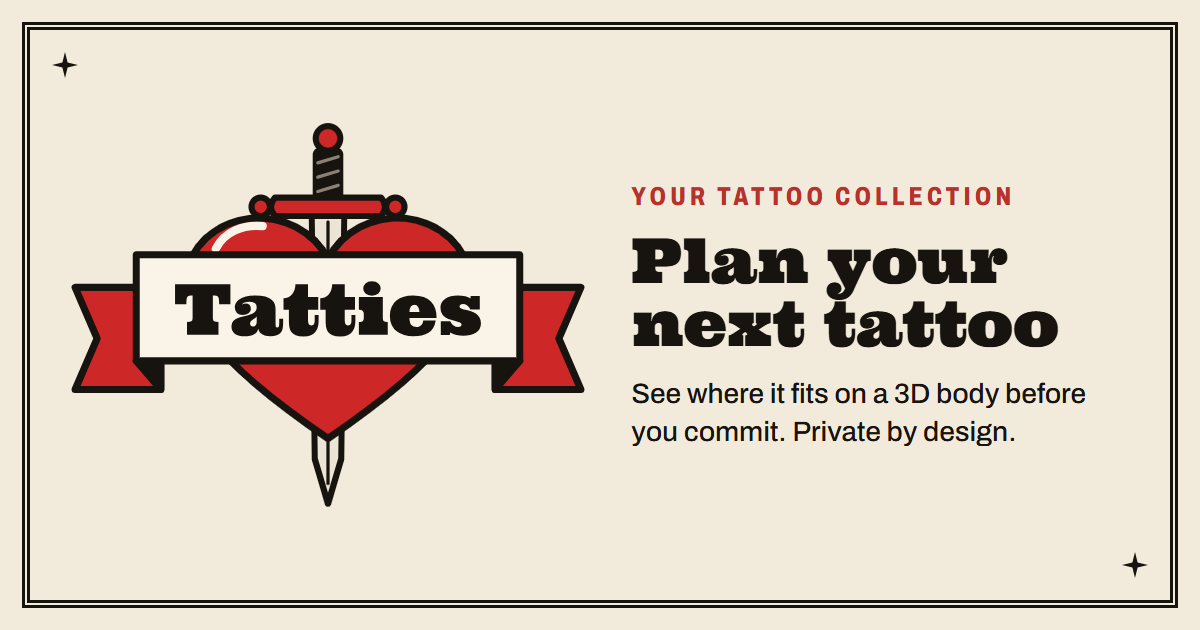
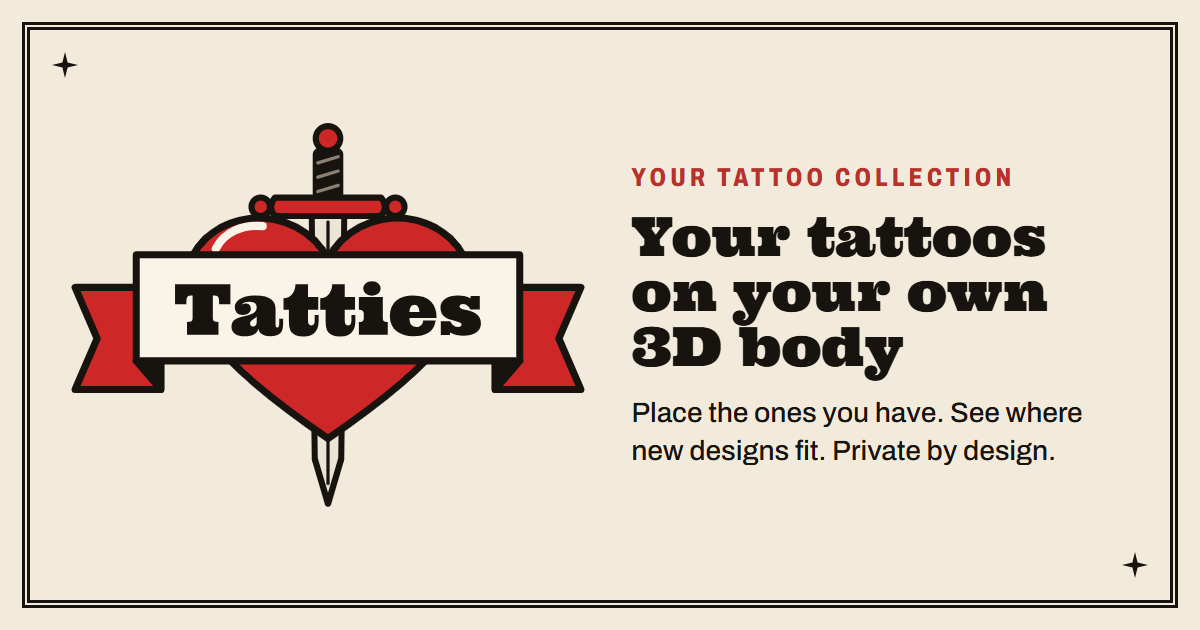
Landing: minder tekst in de hero, titel en deelteksten over je eigen 3D-lichaam, nieuwe og-image

Changed region(s): [[0.5242, 0.2413, 0.925, 0.754]]

diff --git a/index.html b/index.html
@@ -7,20 +7,20 @@
 <meta name="color-scheme" content="light dark">
 <meta name="theme-color" content="#EFE4D0" media="(prefers-color-scheme: light)">
 <meta name="theme-color" content="#181511" media="(prefers-color-scheme: dark)">
-<title>Tatties - plan your next tattoo</title>
+<title>Tatties - your tattoos on your own 3D body</title>
 <meta name="description" content="Place the tattoos you already have on your own 3D body, then see where new designs fit. A private log of your ink, no account needed. In beta.">
 <link rel="canonical" href="https://tatties.app/">
-<meta property="og:title" content="Tatties - plan your next tattoo">
-<meta property="og:description" content="Plan your next tattoo on a 3D body - then log the ink you already have. Private by design. In private beta.">
+<meta property="og:title" content="Tatties - your tattoos on your own 3D body">
+<meta property="og:description" content="Place the tattoos you already have on your own 3D body, then see where new designs fit. Private by design. In beta.">
 <meta property="og:type" content="website">
 <meta property="og:url" content="https://tatties.app/">
 <meta property="og:image" content="https://tatties.app/img/og-image.png">
 <meta property="og:image:width" content="1200">
 <meta property="og:image:height" content="630">
-<meta property="og:image:alt" content="Tatties - plan your next tattoo">
+<meta property="og:image:alt" content="Tatties - your tattoos on your own 3D body">
 <meta name="twitter:card" content="summary_large_image">
-<meta name="twitter:title" content="Tatties - plan your next tattoo">
-<meta name="twitter:description" content="Plan your next tattoo on a 3D body - then log the ink you already have. Private by design. In private beta.">
+<meta name="twitter:title" content="Tatties - your tattoos on your own 3D body">
+<meta name="twitter:description" content="Place the tattoos you already have on your own 3D body, then see where new designs fit. Private by design. In beta.">
 <meta name="twitter:image" content="https://tatties.app/img/og-image.png">
 <link rel="preload" as="font" type="font/woff2" href="fonts/recoleta-semibold.woff2" crossorigin>
 <link rel="preload" as="image" href="img/tatties-logo-hart.png">
@@ -89,6 +89,8 @@
   .tagline{font-size:clamp(1rem,2vw,1.12rem);font-weight:600;color:var(--tekst);margin:0 auto 18px}
   .lede{font-size:clamp(1.05rem,2.2vw,1.25rem);color:var(--op-grond);max-width:560px;margin:0 auto 28px;line-height:1.5}
   .lede strong{color:var(--tekst);font-weight:700}
+  .headline-zin{font-size:clamp(1.4rem,3.1vw,1.95rem);font-weight:600;line-height:1.25;max-width:620px;text-wrap:balance;margin:0 auto 28px;color:var(--op-grond)}
+  .headline-zin strong{display:block;color:var(--tekst);font-weight:700}
 
   /* ---- notify-formulier ---- */
   .waitlist{max-width:470px;margin:0 auto;position:relative;z-index:2}
@@ -181,11 +183,7 @@
     <div class="wrap">
       <span class="eyebrow">In beta</span>
       <picture><source srcset="img/tatties-logo-hart-dark.png" media="(prefers-color-scheme: dark)"><img class="hero-logo" src="img/tatties-logo-hart.png" alt="Tatties" width="880" height="662" decoding="async"></picture>
-      <h1 class="headline">Plan your next tattoo</h1>
-      <p class="tagline">show me your tatties</p>
-      <p class="lede">
-        Place tattoos you already have on your own 3D body. <strong>Then see where new designs fit.</strong>
-      </p>
+      <h1 class="headline headline-zin">Place tattoos you already have on your own 3D body. <strong>Then see where new designs fit.</strong></h1>
       <div class="waitlist" id="waitlist">
         <form id="waitlistForm" novalidate>
           <div class="form-row">
